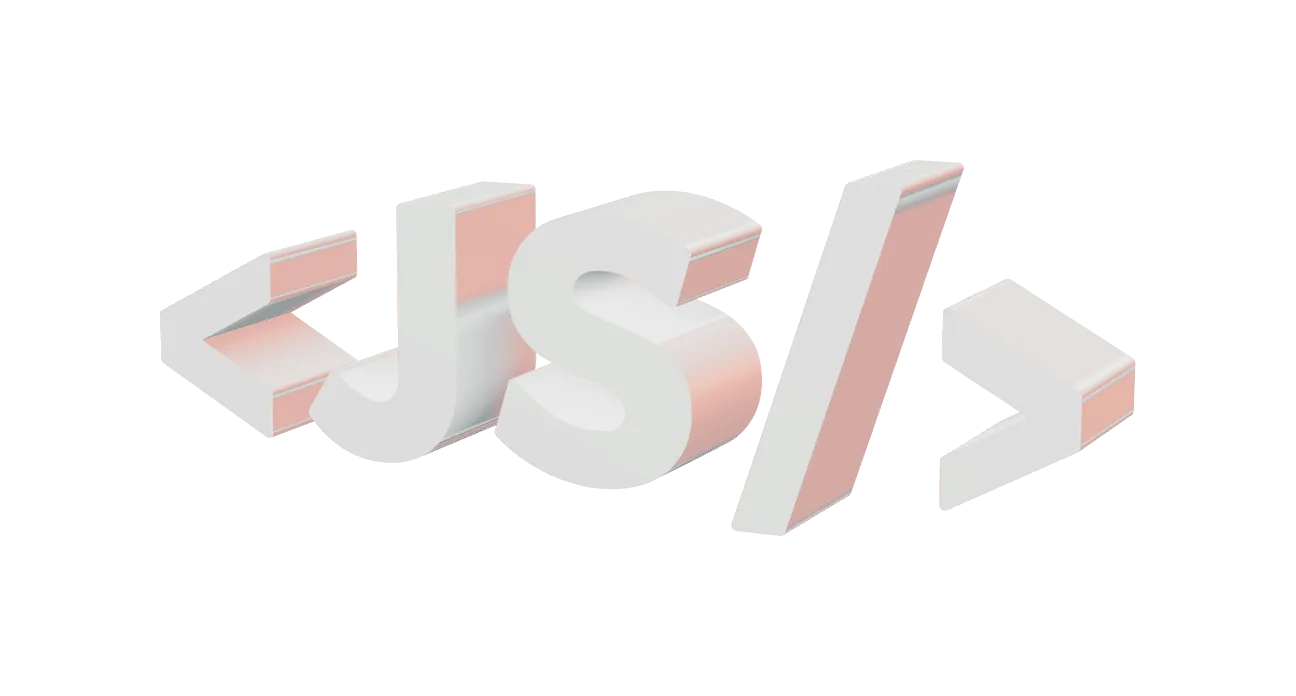
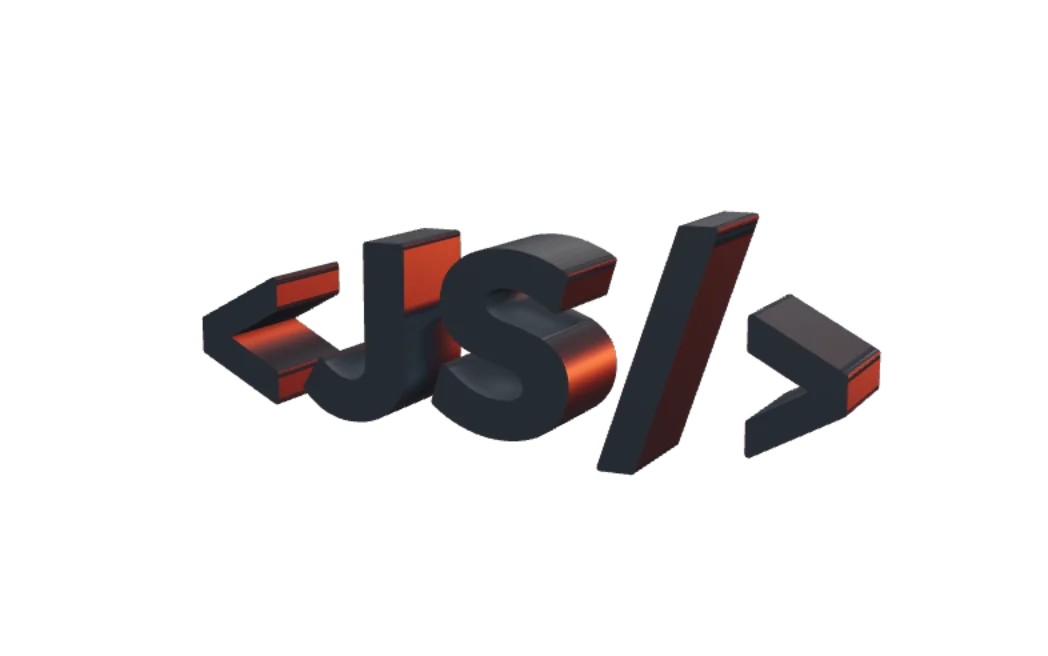
Exhibit: graphite is the look; drop the picker, paper and signal
- The viewer has a single graphite material (#2A2F36, roughness 0.45)
  on the light panel viewport
- The poster is re-rendered from the live stage at the resting pose
  (15 KB WebP, transparent) and sits exactly where the canvas draws,
  so the crossfade doesn't jump
- The temporary material picker and ?material= are removed

Claude-Session: https://claude.ai/code/session_01GDUYcW9eGtyoxP81MSziLN

Changed region(s): [[0.1221, 0.2134, 0.8855, 0.7927]]

diff --git a/src/components/exhibit/JsExhibit.tsx b/src/components/exhibit/JsExhibit.tsx
@@ -1,6 +1,6 @@
 import { useEffect, useRef, useState } from 'react';
 import { site } from '../../content/site';
-import type { ExhibitMaterial, Viewer } from './viewer';
+import type { Viewer } from './viewer';
 import { useInView } from '../../hooks/useInView';
 
 const asset = (path: string) => `${import.meta.env.BASE_URL}${path}`;
@@ -27,34 +27,17 @@ const whenIdle = (cb: () => void) => {
 };
 
 /**
- * Fig. 0: the dark viewport with the <JS/> model. Shows the poster immediately; once the page
- * is idle and the figure is on screen it lazy-loads the three.js viewer and crossfades to it.
- * Without WebGL, or on any failure, the poster simply stays.
+ * Fig. 0: the light (panel) viewport with the graphite <JS/> model. Shows the poster immediately;
+ * once the page is idle and the figure is on screen it lazy-loads the three.js viewer and
+ * crossfades to it. Without WebGL, or on any failure, the poster simply stays.
+ *
+ * The poster is a capture of this same stage at the resting pose, so it lines up with the canvas.
  */
-interface Props {
-  material: ExhibitMaterial;
-  /** Fires once the live model has replaced the poster */
-  onLive?: () => void;
-}
-
-/** Graphite reads on a light viewport (as in the looks board); paper and signal on the dark one */
-const skins = {
-  dark: { figure: 'bg-ink', text: 'text-muted-dark', ring: 'border-line-2' },
-  light: { figure: 'bg-panel', text: 'text-muted', ring: 'border-plate-rule' },
-};
-
-const JsExhibit = ({ material, onLive }: Props) => {
+const JsExhibit = () => {
   const { exhibit } = site;
   const [figRef, seen] = useInView<HTMLElement>('0px');
   const stageRef = useRef<HTMLDivElement>(null);
-  const viewerRef = useRef<Viewer>(undefined);
-  const initialMaterial = useRef(material);
-  const onLiveRef = useRef(onLive);
   const [live, setLive] = useState(false);
-  const skin = skins[material === 'graphite' ? 'light' : 'dark'];
-
-  useEffect(() => { onLiveRef.current = onLive; }, [onLive]);
-  useEffect(() => { viewerRef.current?.setMaterial(material); }, [material]);
 
   useEffect(() => {
     const stage = stageRef.current;
@@ -80,17 +63,12 @@ const JsExhibit = ({ material, onLive }: Props) => {
           viewer = createViewer({
             container: stage,
             modelUrl: asset(exhibit.model),
-            material: initialMaterial.current,
             reducedMotion: window.matchMedia('(prefers-reduced-motion: reduce)').matches,
             // ?force3d renders the model even without a GPU, for testing on such machines
             allowSoftware: new URLSearchParams(window.location.search).has('force3d'),
-            onReady: () => {
-              setLive(true);
-              onLiveRef.current?.();
-            },
-            onError: () => { viewer?.dispose(); viewer = undefined; viewerRef.current = undefined; },
+            onReady: () => { setLive(true); },
+            onError: () => { viewer?.dispose(); viewer = undefined; },
           });
-          viewerRef.current = viewer;
           sync();
         })
         // No WebGL, or the chunk failed: keep the poster, no error UI
@@ -103,7 +81,6 @@ const JsExhibit = ({ material, onLive }: Props) => {
       io.disconnect();
       document.removeEventListener('visibilitychange', sync);
       viewer?.dispose();
-      viewerRef.current = undefined;
     };
   }, [seen, exhibit.model]);
 
@@ -111,14 +88,14 @@ const JsExhibit = ({ material, onLive }: Props) => {
     <figure
       ref={figRef}
       aria-label={exhibit.ariaLabel}
-      className={`relative m-0 ml-[10%] flex aspect-[5/4] flex-col overflow-hidden border-[1.5px] border-ink transition-colors duration-300 ${skin.figure}`}
+      className="relative m-0 ml-[10%] flex aspect-[5/4] flex-col overflow-hidden border-[1.5px] border-ink bg-panel"
     >
       <Corner pos="top-3 left-3 border-t-2 border-l-2" />
       <Corner pos="top-3 right-3 border-t-2 border-r-2" />
       <Corner pos="bottom-3 left-3 border-b-2 border-l-2" />
       <Corner pos="bottom-3 right-3 border-b-2 border-r-2" />
 
-      <figcaption className={`label-sm relative z-10 flex items-center justify-between gap-3 px-10 pt-[18px] max-sm:px-8 ${skin.text}`}>
+      <figcaption className="label-sm relative z-10 flex items-center justify-between gap-3 px-10 pt-[18px] text-muted max-sm:px-8">
         <span>{exhibit.figure}</span>
         <span className="inline-flex items-center gap-2">
           <RotateIcon />
@@ -129,7 +106,7 @@ const JsExhibit = ({ material, onLive }: Props) => {
       <div className="relative flex flex-auto items-center justify-center px-[8%]">
         <span
           aria-hidden="true"
-          className={`absolute top-[66%] left-1/2 aspect-[4/1] w-[62%] -translate-x-1/2 -translate-y-1/2 rounded-[50%] border border-dashed ${skin.ring}`}
+          className="absolute top-[66%] left-1/2 aspect-[4/1] w-[62%] -translate-x-1/2 -translate-y-1/2 rounded-[50%] border border-dashed border-plate-rule"
         />
         <img
           src={asset(exhibit.poster.src)}
@@ -138,7 +115,7 @@ const JsExhibit = ({ material, onLive }: Props) => {
           height={exhibit.poster.height}
           decoding="async"
           fetchPriority="low"
-          className={`relative block h-auto w-full max-w-[520px] transition-opacity duration-300 ${live ? 'opacity-0' : 'opacity-100'}`}
+          className={`absolute inset-0 block size-full object-contain transition-opacity duration-300 ${live ? 'opacity-0' : 'opacity-100'}`}
         />
         <div
           ref={stageRef}
@@ -146,7 +123,7 @@ const JsExhibit = ({ material, onLive }: Props) => {
         />
       </div>
 
-      <p className={`relative z-10 m-0 self-end px-10 pb-[22px] text-right font-mono text-[11px] leading-[1.5] max-sm:px-8 ${skin.text}`}>
+      <p className="relative z-10 m-0 self-end px-10 pb-[22px] text-right font-mono text-[11px] leading-[1.5] text-muted max-sm:px-8">
         {exhibit.credit[0]}<br />{exhibit.credit[1]}
       </p>
     </figure>

diff --git a/src/components/HeroExhibit.tsx b/src/components/HeroExhibit.tsx
@@ -1,64 +1,23 @@
-import { useState } from 'react';
 import { site } from '../content/site';
 import { HeroText } from './Hero';
 import IdentPlate from './IdentPlate';
 import JsExhibit from './exhibit/JsExhibit';
-import type { ExhibitMaterial } from './exhibit/viewer';
 
-const { exhibit } = site;
-const ids = exhibit.materialPicker.options.map((o) => o.id) as readonly string[];
-
-/** ?material=graphite (or signal) preselects a look, so a preview link can show one */
-const initialMaterial = (): ExhibitMaterial => {
-  const fromUrl = new URLSearchParams(window.location.search).get('material');
-  return fromUrl && ids.includes(fromUrl) ? (fromUrl as ExhibitMaterial) : exhibit.material;
-};
-
-/** Temporary: toggles the live model's material until one is chosen */
-const MaterialPicker = ({ value, onChange }: { value: ExhibitMaterial; onChange: (m: ExhibitMaterial) => void }) => (
-  <div role="group" aria-label={exhibit.materialPicker.label} className="mt-6 flex flex-wrap items-center justify-end gap-2">
-    <span className="label-sm mr-1 text-muted">{exhibit.materialPicker.label}</span>
-    {exhibit.materialPicker.options.map((o) => (
-      <button
-        key={o.id}
-        type="button"
-        aria-pressed={value === o.id}
-        onClick={() => {
-          onChange(o.id);
-          const url = new URL(window.location.href);
-          url.searchParams.set('material', o.id);
-          window.history.replaceState(window.history.state, '', url);
-        }}
-        className={`btn min-h-11 border-[1.5px] border-ink px-3 font-mono text-xs tracking-[0.06em] uppercase ${
-          value === o.id ? 'bg-ink text-paper' : 'bg-paper text-ink hover:bg-panel'
-        }`}
-      >
-        {o.label}
-      </button>
-    ))}
-  </div>
-);
-
-/** Branch B hero: the <JS/> exhibit with the ident plate hanging off its lower-left corner */
-const HeroExhibit = () => {
-  const [material, setMaterial] = useState(initialMaterial);
-  const [live, setLive] = useState(false);
-  return (
-    <section aria-labelledby="hero-title" className="dot-grid border-b-[1.5px] border-ink">
-      <div className="wrap grid grid-cols-[repeat(auto-fit,minmax(min(460px,100%),1fr))] items-center gap-[clamp(48px,5vw,72px)] pt-[clamp(56px,8vw,112px)] pb-[clamp(64px,8vw,112px)]">
-        <HeroText />
-        <div className="flex min-w-0 flex-col items-stretch">
-          <JsExhibit material={material} onLive={() => { setLive(true); }} />
-          <IdentPlate
-            rows={exhibit.plateRows}
-            variant="tag"
-            className="plate-in relative z-10 -mt-[clamp(56px,8vw,120px)] w-[min(420px,92%)]"
-          />
-          {exhibit.materialPicker.visible && live && <MaterialPicker value={material} onChange={setMaterial} />}
-        </div>
+/** Hero: the <JS/> exhibit with the ident plate hanging off its lower-left corner */
+const HeroExhibit = () => (
+  <section aria-labelledby="hero-title" className="dot-grid border-b-[1.5px] border-ink">
+    <div className="wrap grid grid-cols-[repeat(auto-fit,minmax(min(460px,100%),1fr))] items-center gap-[clamp(48px,5vw,72px)] pt-[clamp(56px,8vw,112px)] pb-[clamp(64px,8vw,112px)]">
+      <HeroText />
+      <div className="flex min-w-0 flex-col items-stretch">
+        <JsExhibit />
+        <IdentPlate
+          rows={site.exhibit.plateRows}
+          variant="tag"
+          className="plate-in relative z-10 -mt-[clamp(56px,8vw,120px)] w-[min(420px,92%)]"
+        />
       </div>
-    </section>
-  );
-};
+    </div>
+  </section>
+);
 
 export default HeroExhibit;

diff --git a/src/components/exhibit/viewer.ts b/src/components/exhibit/viewer.ts
@@ -26,12 +26,9 @@ import { GLTFLoader } from 'three/examples/jsm/loaders/GLTFLoader.js';
 import { RoomEnvironment } from 'three/examples/jsm/environments/RoomEnvironment.js';
 import { MeshoptDecoder } from 'three/examples/jsm/libs/meshopt_decoder.module.js';
 
-export type ExhibitMaterial = 'paper' | 'graphite' | 'signal';
-
 export interface ViewerOptions {
   container: HTMLElement;
   modelUrl: string;
-  material: ExhibitMaterial;
   reducedMotion: boolean;
   /** Allow software rendering (SwiftShader, llvmpipe). Off by default: those devices keep the poster. */
   allowSoftware: boolean;
@@ -42,15 +39,11 @@ export interface ViewerOptions {
 
 export interface Viewer {
   setActive: (active: boolean) => void;
-  setMaterial: (material: ExhibitMaterial) => void;
   dispose: () => void;
 }
 
-const MATERIALS: Record<ExhibitMaterial, { color: string; roughness: number }> = {
-  paper: { color: '#E9ECE8', roughness: 0.55 },
-  graphite: { color: '#2A2F36', roughness: 0.45 },
-  signal: { color: '#FF5A1F', roughness: 0.5 },
-};
+// Graphite (chosen over paper and signal): ink-2 with the orange rim light picking out the edges
+const GRAPHITE = { color: '#2A2F36', roughness: 0.45 };
 
 const REST_YAW = MathUtils.degToRad(-24);
 const REST_PITCH = MathUtils.degToRad(10);
@@ -123,8 +116,7 @@ export const createViewer = (opts: ViewerOptions): Viewer => {
   let clock = 0;
   let disposed = false;
   let radius = 0;
-  let current = opts.material;
-  const material = new MeshStandardMaterial({ metalness: 0, side: DoubleSide });
+  const material = new MeshStandardMaterial({ ...GRAPHITE, metalness: 0, side: DoubleSide });
 
   const frameModel = () => {
     if (!radius) return;
@@ -233,8 +225,6 @@ export const createViewer = (opts: ViewerOptions): Viewer => {
     (gltf) => {
       if (disposed) return;
       const model = gltf.scene;
-      material.color.set(MATERIALS[current].color);
-      material.roughness = MATERIALS[current].roughness;
       model.traverse((o: Object3D) => {
         // The export carries the curve outline as a line primitive: hide it, keep the solid
         if ('isLine' in o || 'isLineSegments' in o || 'isPoints' in o) o.visible = false;
@@ -270,15 +260,6 @@ export const createViewer = (opts: ViewerOptions): Viewer => {
   );
 
   return {
-    setMaterial: (next) => {
-      current = next;
-      material.color.set(MATERIALS[next].color);
-      material.roughness = MATERIALS[next].roughness;
-      if (frame) return;
-      // Redraw once even when the loop is asleep (reduced motion, settled)
-      last = 0;
-      frame = requestAnimationFrame(tick);
-    },
     setActive: (next) => {
       active = next;
       if (active) wake();

diff --git a/src/content/site.ts b/src/content/site.ts
@@ -95,26 +95,14 @@ export const site = {
     ] satisfies PlateRow[],
   },
 
-  /** Branch B: the hero's 3D exhibit. The plate becomes its inspection tag with five rows. */
+  /** The hero's 3D exhibit (graphite). The plate becomes its inspection tag with five rows. */
   exhibit: {
     ariaLabel: 'Interactive 3D model of Jose’s hand-made JS logo. Drag to rotate.',
     figure: 'Fig. 0 · <JS/>',
     hint: 'Drag to rotate',
     credit: ['Modeled by hand in Blender', 'Rendered live in Three.js'],
     model: 'exhibit/js.glb',
-    poster: { src: 'exhibit/poster.webp', width: 1296, height: 696 },
-    /** Q22: 'paper' (default), 'graphite' or 'signal'. The poster is rendered in paper. */
-    material: 'paper' as 'paper' | 'graphite' | 'signal',
-    /** Temporary, until the owner picks one (Q22): switches the live model between the three looks */
-    materialPicker: {
-      visible: true,
-      label: 'Material preview',
-      options: [
-        { id: 'paper', label: 'Paper' },
-        { id: 'graphite', label: 'Graphite' },
-        { id: 'signal', label: 'Signal' },
-      ] as const,
-    },
+    poster: { src: 'exhibit/poster.webp', width: 1048, height: 656 },
     plateRows: [
       { label: 'Name', value: 'Jose Sierra', strong: true },
       { label: 'Role', value: 'Full-stack, cloud, network & DevOps engineer' },

diff --git a/README.md b/README.md
@@ -34,10 +34,10 @@ The hero's right column is a live three.js render of the hand-made Blender logo,
   npx @gltf-transform/cli prune models/logo/scene.gltf /tmp/pruned.glb --keep-attributes false
   npx @gltf-transform/cli meshopt /tmp/pruned.glb public/exhibit/js.glb
   ```
-- **Poster:** `public/exhibit/poster.webp`. It renders immediately in the same box. The viewer chunk (`src/components/exhibit/viewer.ts`, ~166 KB gz) loads with a dynamic import once the page is idle and the figure is on screen, then crossfades in on its first frame.
+- **Poster:** `public/exhibit/poster.webp`, a capture of the live stage at the resting pose, so it lines up with the canvas. It renders immediately in the same box. The viewer chunk (`src/components/exhibit/viewer.ts`, ~166 KB gz) loads with a dynamic import once the page is idle and the figure is on screen, then crossfades in on its first frame.
 - **Fallbacks:** without WebGL, or with only a software renderer (SwiftShader, llvmpipe), the poster stays. Add `?force3d` to the URL to render anyway.
 - **Behavior:** the model idles within ±35° of the resting pose. Dragging rotates it, and touch uses `pan-y` so vertical scrolling still works. It eases back to the idle motion 3 s after release. Rendering pauses offscreen and in hidden tabs. With `prefers-reduced-motion` the model holds the resting pose and only moves on drag.
-- **Material:** `site.exhibit.material` takes `paper`, `graphite` or `signal`.
+- **Material:** graphite (`#2A2F36`, roughness 0.45) on the light panel viewport. Paper and signal were tried and dropped.
 
 ## Editing content
 
